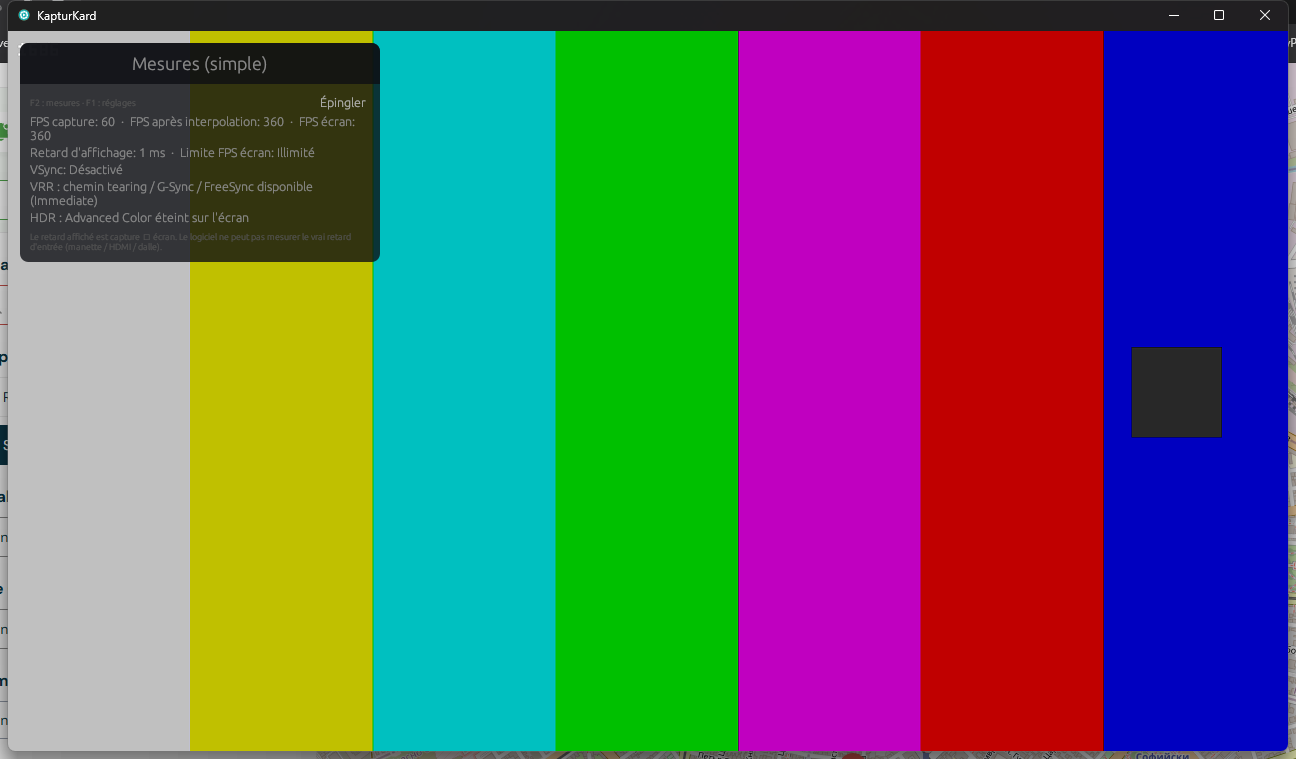
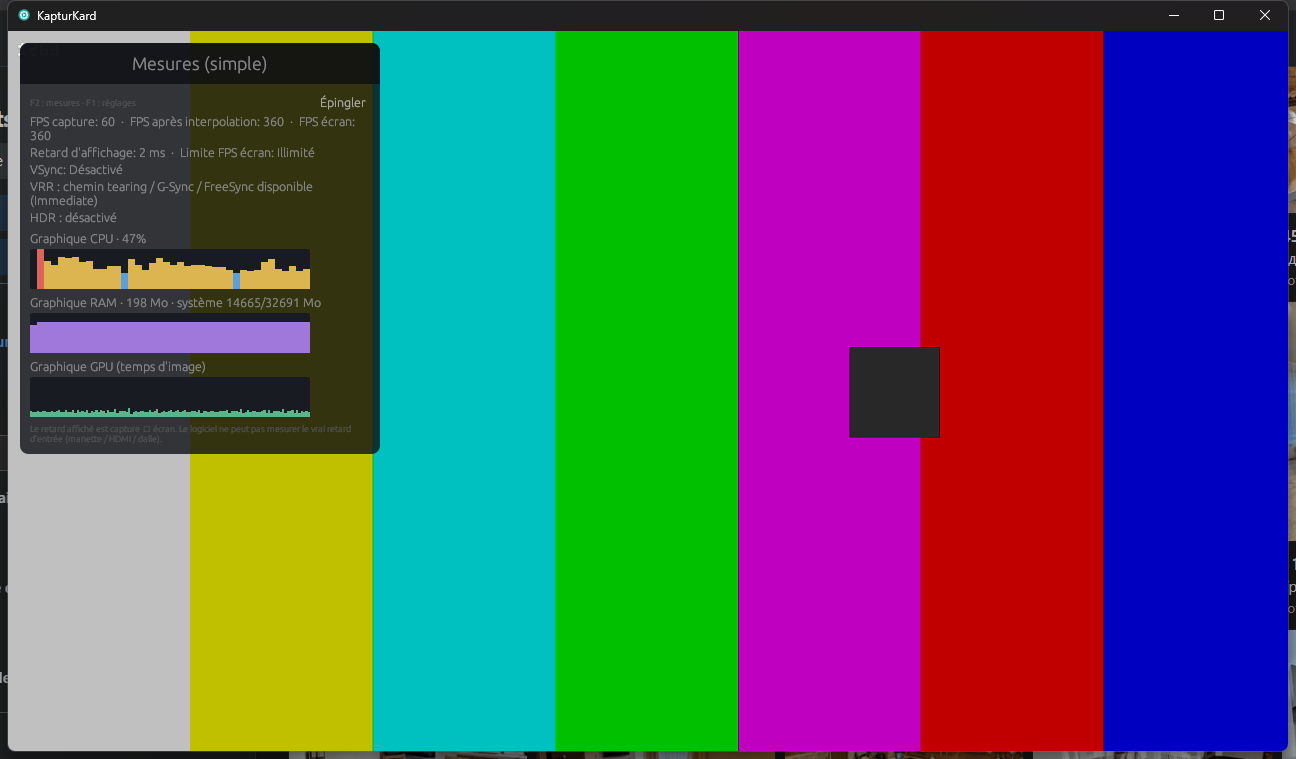
docs: refresh Infos/metrics screenshots after monitoring graphs
Rebuild against main (PR #9) so Infos shows Graphiques de monitoring
toggles and live CPU/RAM/GPU sparklines; update README captions.

diff --git a/README.md b/README.md
@@ -35,17 +35,17 @@ Entrée audio HDMI, sortie casque/haut-parleurs, mute, volume et niveau.
 
 ![Effects settings / Réglages Effets](docs/images/settings-effects.png)
 
-### Infos — monitoring, VRR / HDR, language
+### Infos — monitoring graphs, VRR / HDR, language
 
-Live FPS (capture / after interpolation / display), pipeline delay, VSync, **VRR** (G-Sync / FreeSync path), **HDR** status, 1% lows, CPU/RAM/GPU, frame-time graph, language (English / Français), Discord presence, logs, manual lag flash test.  
-FPS live (capture / après interpolation / écran), retard pipeline, VSync, **VRR**, statut **HDR**, 1 % bas, CPU/RAM/GPU, courbe temps par image, langue, Discord, journaux, test flash de retard.
+**Graphiques de monitoring** toggles (CPU/RAM/GPU, VRAM, disk I/O, FPS / 1% lows, present latency, framegen throughput), live sparklines, FPS (capture / after interpolation / display), pipeline delay, VSync, **VRR** (G-Sync / FreeSync), **HDR** status, language (English / Français).  
+Cases **Graphiques de monitoring**, courbes live, FPS, retard pipeline, VSync, **VRR**, statut **HDR**, choix de langue.
 
 ![Infos monitoring VRR HDR](docs/images/settings-info.png)
 
 ### Metrics overlay (F2) / Mesures
 
-**Simple** and **Detailed** overlays — same VRR/HDR lines, plus detailed CPU/RAM/GPU and frame-time graph in detailed mode.  
-Overlays **simple** et **détail** — mêmes lignes VRR/HDR ; détail ajoute CPU/RAM/GPU et la courbe.
+**Simple** and **Detailed** overlays — VRR/HDR lines; detailed mode adds CPU/RAM/VRAM graphs and frame-time history.  
+Overlays **simple** et **détail** — lignes VRR/HDR ; le détail ajoute les graphiques CPU/RAM/VRAM et l’historique des temps d’image.
 
 | Simple | Detailed / Détail |
 |--------|-------------------|
